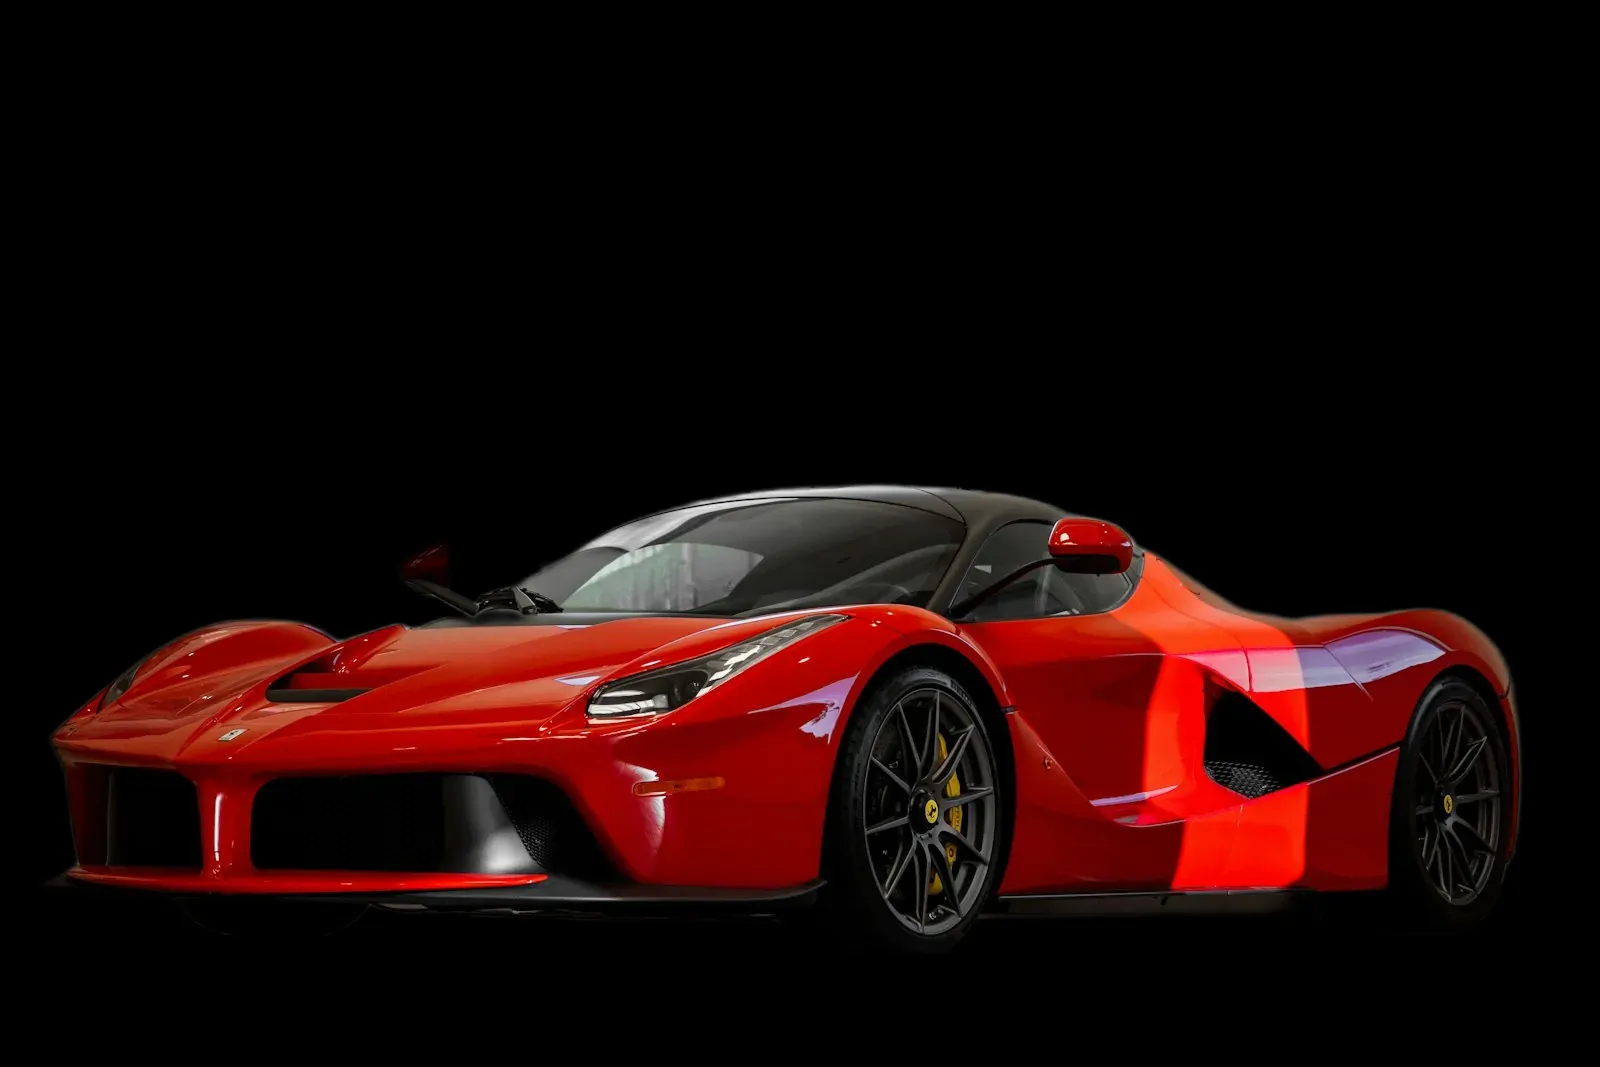
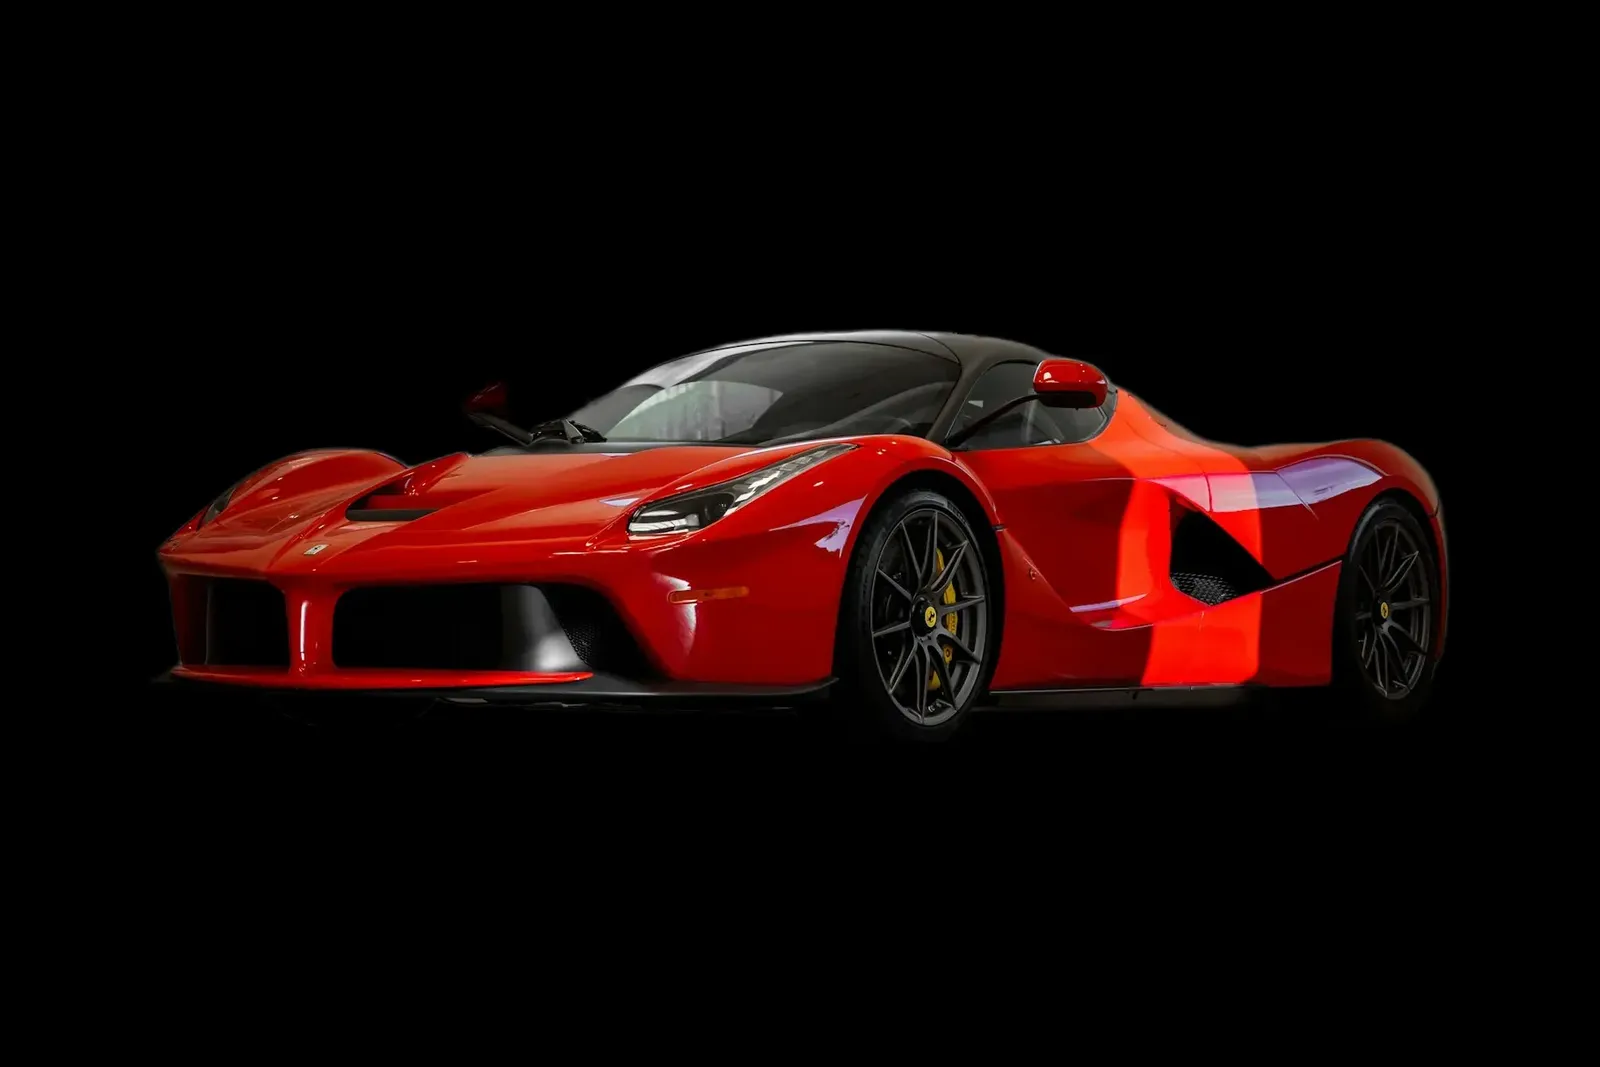
Consistent car sizes everywhere + a tidier mobile footer
Car sizes: the black-background photos are normalised — each car
is centred on the same 1600x1067 canvas filling 86% of the width,
so the portrait shots that used to render tiny (R8, M4, Corvette,
GT-R) and the mid-frame ones (Challenger, Mustang) now match the
rest of the grid on every surface. Only empty black was trimmed;
no car is cropped. The Chiron card and the Taycan got the same
treatment by hand-tuned crops.

The hero keeps its own wide studio shot (bugatti-hero.webp) so
its approved composition — spec cards, mobile crop — is untouched
by the normalisation.

Footer on mobile: the contact row is now a centred stack — the
address on its own line, phone and Instagram pills at one uniform
width with the copy button at the end — the giant wordmark is
sized to sit inside the screen with margins, the CTA block is
less towering, and the copyright line wraps clear of the
floating buttons. Desktop footer unchanged.

diff --git a/src/components/Footer.jsx b/src/components/Footer.jsx
@@ -14,13 +14,13 @@ export default function Footer() {
       setTimeout(() => setCopied(''), 1500);
     } catch { /* clipboard unavailable — the link itself still works */ }
   };
-  const pill = 'group inline-flex items-center gap-2.5 rounded-full border border-line/70 bg-white/[0.03] py-1.5 pe-2 ps-1.5 backdrop-blur transition-all duration-300 hover:-translate-y-0.5 hover:border-signal/70';
+  const pill = 'group inline-flex items-center gap-2.5 rounded-full border border-line/70 bg-white/[0.03] py-1.5 pe-2 ps-1.5 backdrop-blur transition-all duration-300 hover:-translate-y-0.5 hover:border-signal/70 max-md:w-full max-md:max-w-[330px] max-md:justify-between';
   const chip = 'flex h-7 w-7 items-center justify-center rounded-full bg-signal/15 text-signal transition-colors duration-300 group-hover:bg-signal group-hover:text-white';
   const copyBtn = 'flex h-7 w-7 items-center justify-center rounded-full text-dim transition-colors hover:bg-white/10 hover:text-bone';
   return (
     <footer id="contact" className="relative overflow-hidden">
       {/* CTA */}
-      <div className="px-6 py-24 text-center md:px-12 md:py-32">
+      <div className="px-6 py-16 text-center md:px-12 md:py-32">
         <Reveal>
           <p className="font-grotesk text-[11px] uppercase tracking-[0.35em] text-signal" dir="ltr">Have a beast in mind?</p>
           <h2 className="mx-auto mt-5 max-w-4xl text-5xl font-black leading-[1.1] text-bone md:text-7xl">
@@ -47,14 +47,14 @@ export default function Footer() {
         <Logo className="h-14 w-14 text-bone" />
       </div>
       <div className="select-none px-2" dir="ltr" aria-hidden>
-        <div className="text-stroke-faint whitespace-nowrap text-center font-display text-[16.5vw] leading-[0.78]">
+        <div className="text-stroke-faint whitespace-nowrap text-center font-display text-[13.8vw] leading-[0.78] md:text-[16.5vw]">
           ELSHAZLY
         </div>
       </div>
 
       <div className="border-t border-line px-6 py-8 md:px-12">
-        <div className="flex flex-wrap items-center justify-between gap-5 text-sm text-dim">
-          <span className="flex items-center gap-2">
+        <div className="flex flex-col items-center gap-3.5 text-sm text-dim md:flex-row md:flex-wrap md:items-center md:justify-between md:gap-5">
+          <span className="flex items-center justify-center gap-2 text-center">
             <MapPin size={15} className="text-signal" />
             {t('ft.addr')}
           </span>
@@ -77,7 +77,7 @@ export default function Footer() {
             </button>
           </span>
         </div>
-        <p className="mt-6 text-center font-grotesk text-[11px] uppercase tracking-[0.3em] text-dim/70" dir="ltr">
+        <p className="mt-6 px-10 text-center font-grotesk text-[11px] uppercase leading-relaxed tracking-[0.18em] text-dim/70 md:px-0 md:tracking-[0.3em]" dir="ltr">
           © 2026 Apex Motors — Not just browsing cars. Experiencing speed.
         </p>
       </div>

diff --git a/src/components/Hero.jsx b/src/components/Hero.jsx
@@ -51,7 +51,7 @@ export default function Hero({ started }) {
       {/* car backdrop — slow cinematic dolly-in + scroll parallax */}
       <motion.div style={{ y: imgY }} className="absolute inset-0">
         <motion.img
-          src="/cars/bugatti.webp"
+          src="/cars/bugatti-hero.webp"
           alt="Bugatti Chiron"
           initial={{ scale: 1.18 }}
           animate={started ? { scale: 1.02 } : {}}
